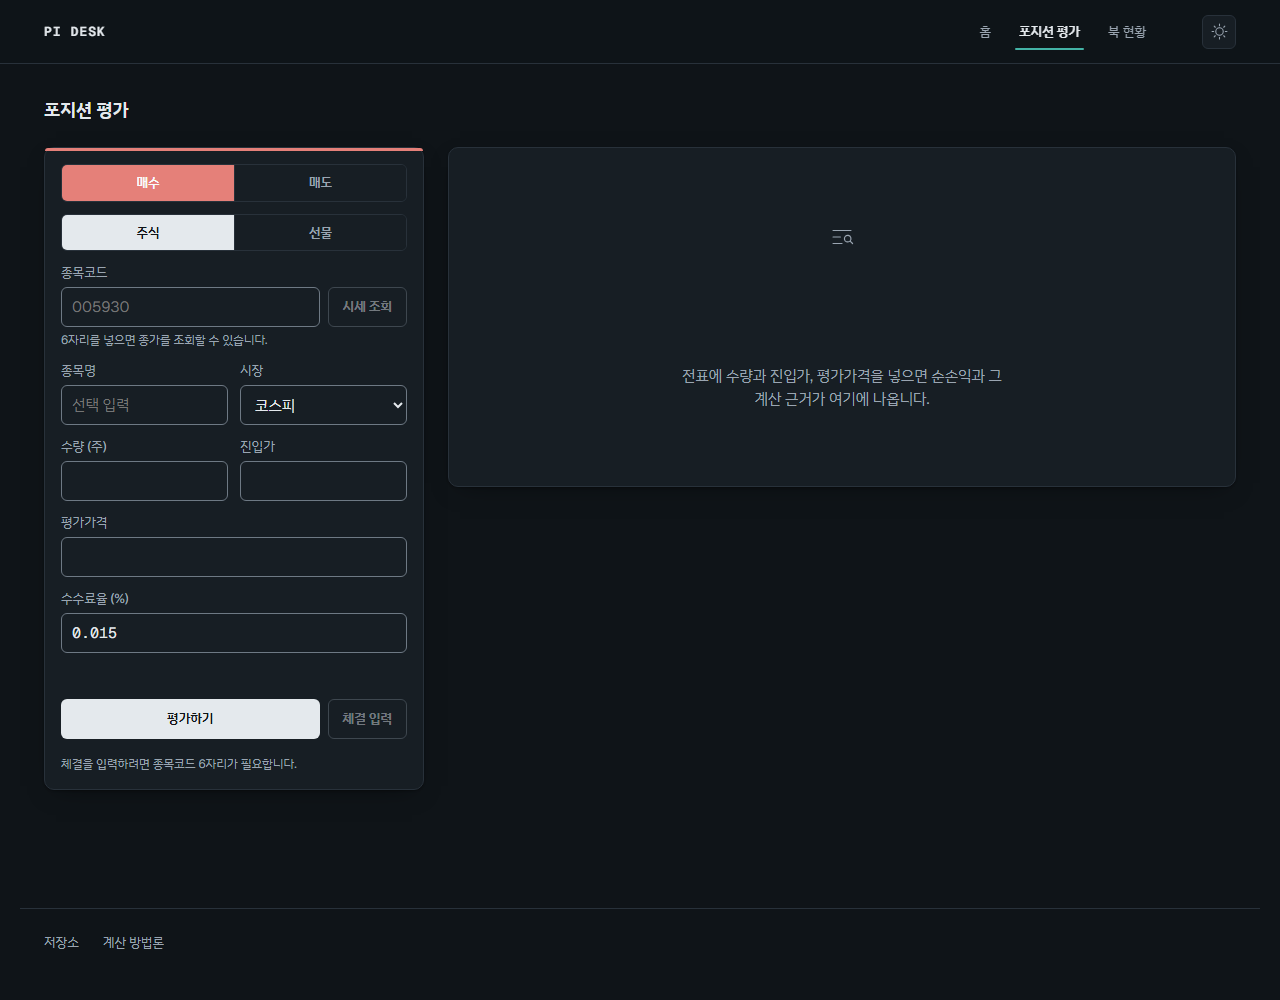
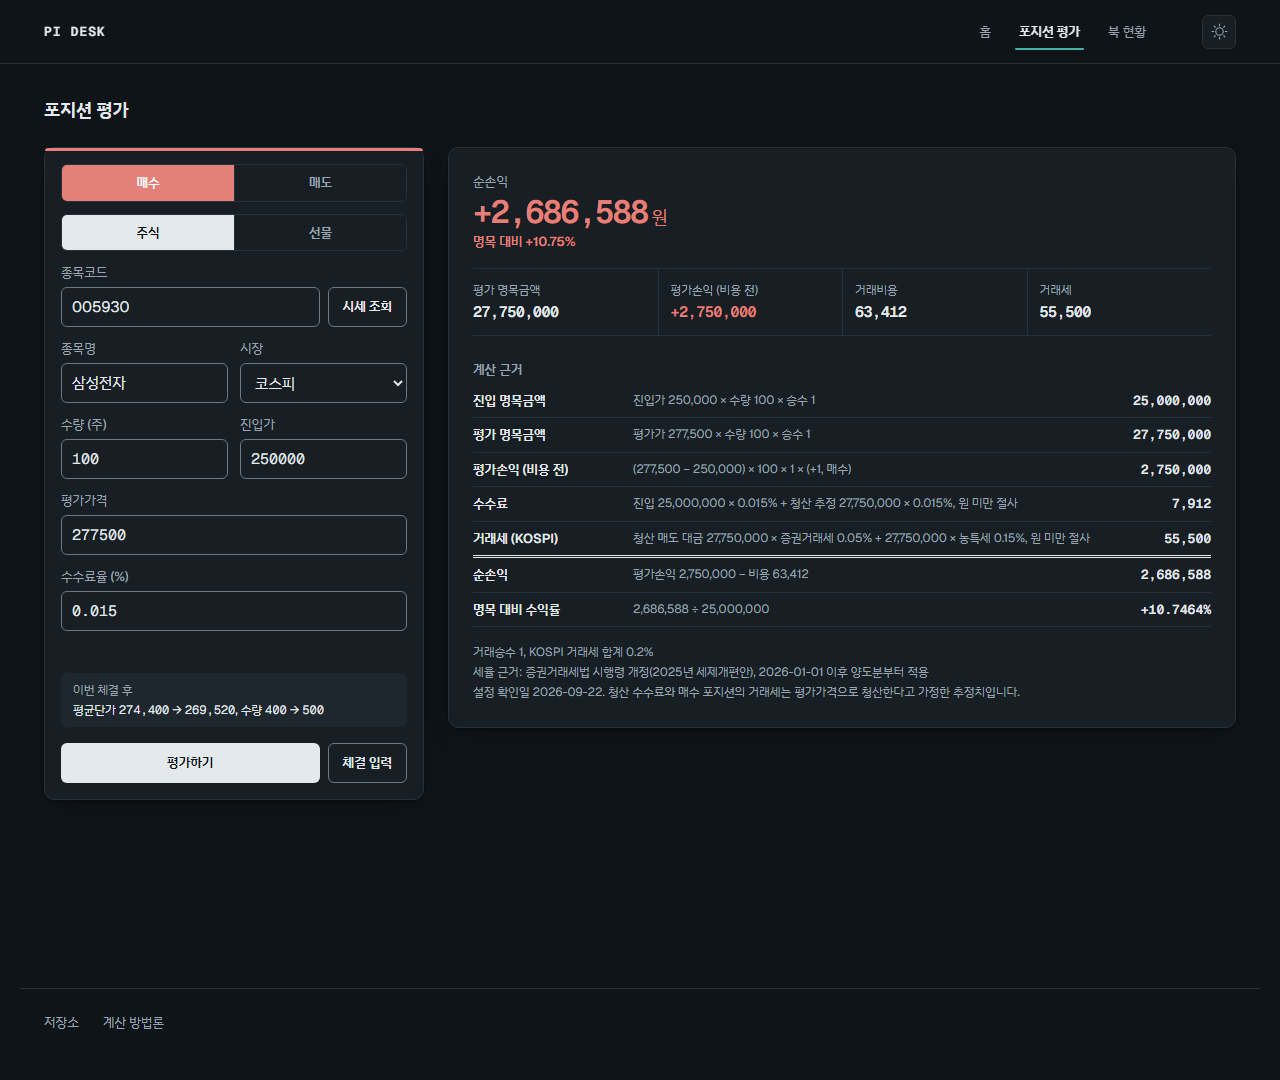
문서: README 스크린샷을 실제 화면에 맞게 교체하고 설명 수정
문제
- 포지션 평가 스크린샷이 빈 전표였다. 계산 결과도 근거도 없는 화면이라
  이 제품이 무엇을 하는지 전혀 보여주지 못했다.
- 체결 기반으로 바뀌면서 생긴 기능(평균단가 미리보기, 방향 전환 안내,
  종목 상세)에 해당하는 스크린샷이 README에 하나도 없었다.

수정
- shot.html에 act=filled 추가. 평가 화면은 값이 채워진 상태로 찍는다.
  shoot_screenshots.py가 valuation 경로에 이 동작을 쓴다.
- shoot_screenshots.py가 상태 스크린샷까지 지우던 문제를 고쳤다.
  이제 자기가 다시 만들 파일만 지운다.
- shoot_states.py에 평균단가 미리보기·방향 전환·종목 상세를 추가하고,
  빈 북·로딩은 빈 임시 DB로 따로 찍도록 EMPTY_STATES로 분리했다.
- README 화면 절을 다시 썼다. 각 스크린샷이 무엇을 보여주는지 실제 숫자로 설명한다.
  근거 추적에서 진입가가 강조되지 않는 이유, 미리보기의 274,400 -> 276,600,
  부분 청산에서 평균단가가 유지된다는 점, 오류에 빨강을 쓰지 않는 이유.

스크린샷 20장 갱신. pytest 70개 통과, build/lint 오류 0.

diff --git a/frontend/public/shot.html b/frontend/public/shot.html
@@ -74,6 +74,20 @@
       const tax = rows.find((r) => r.textContent.includes('거래세')) || rows[0]
       tax.focus()
       await sleep(600)
+    } else if (act === 'filled') {
+      // 평가 화면은 값이 채워진 상태로 찍는다. 빈 전표는 이 제품이 무엇을 하는지 보여주지 못한다.
+      await sleep(1400)
+      const set = (id, v) => {
+        const el = d.getElementById(id)
+        Object.getOwnPropertyDescriptor(win.HTMLInputElement.prototype, 'value').set.call(el, v)
+        el.dispatchEvent(new win.Event('input', { bubbles: true }))
+      }
+      set('ticker', '005930')
+      set('name', '삼성전자')
+      set('quantity', '100')
+      set('entryPrice', '250000')
+      set('markPrice', '277500')
+      await sleep(2000)
     } else if (act === 'flip' || act === 'preview') {
       // 이미 보유 중인 삼성전자에 반대 방향 체결을 넣어 미리보기를 띄운다.
       // flip이면 보유 400주를 넘는 500주를 팔아 방향 전환 안내가 뜨게 한다.

diff --git a/backend/scripts/shoot_screenshots.py b/backend/scripts/shoot_screenshots.py
@@ -35,18 +35,24 @@ MIN_VIEWPORT = 500
 DESKTOP = (1280, 900)
 MOBILE = (375, 812)
 
-SHOTS: list[tuple[str, str, int, int, str]] = []
+# act는 화면을 어떤 상태까지 몰고 갈지 정한다(frontend/public/shot.html 참조).
+# 평가 화면은 값이 채워진 상태로 찍는다. 빈 전표는 이 제품이 무엇을 하는지 보여주지 못한다.
+SHOTS: list[tuple[str, str, int, int, str, str]] = []
 for theme in ("light", "dark"):
-    for name, route, tall in (("home", "/", 1760), ("valuation", "/valuation", 1000),
-                              ("book", "/book", 900)):
-        SHOTS.append((f"{name}-desktop-{theme}", route, DESKTOP[0], tall, theme))
-        SHOTS.append((f"{name}-mobile-{theme}", route, MOBILE[0], 1500 if name == "home" else 900,
-                      theme))
+    for name, route, tall, act in (("home", "/", 1760, ""),
+                                   ("valuation", "/valuation", 1080, "filled"),
+                                   ("book", "/book", 900, "")):
+        SHOTS.append((f"{name}-desktop-{theme}", route, DESKTOP[0], tall, theme, act))
+        mobile_h = {"home": 1500, "valuation": 1500}.get(name, 900)
+        SHOTS.append((f"{name}-mobile-{theme}", route, MOBILE[0], mobile_h, theme, act))
 
 
-def shoot(dest: Path, route: str, w: int, h: int, theme: str) -> bool:
+def shoot(dest: Path, route: str, w: int, h: int, theme: str, act: str = "") -> bool:
     """shot.html을 띄워 잡고, iframe 영역(w x h)만 잘라 저장한다."""
-    return shoot_url(dest, f"w={w}&h={h}&theme={theme}&route={route}", w, h)
+    query = f"w={w}&h={h}&theme={theme}&route={route}"
+    if act:
+        query += f"&act={act}"
+    return shoot_url(dest, query, w, h)
 
 
 def shoot_url(dest: Path, query: str, w: int, h: int) -> bool:
@@ -74,12 +80,13 @@ def main() -> int:
         print("CHROME_PATH 환경 변수로 경로를 지정하세요.")
         return 1
     OUT.mkdir(parents=True, exist_ok=True)
-    for old in OUT.glob("*.png"):
-        old.unlink()
+    # 이 스크립트가 다시 만들 파일만 지운다. shoot_states.py가 찍은 상태 스크린샷은 건드리지 않는다.
+    for name, *_ in SHOTS:
+        (OUT / f"{name}.png").unlink(missing_ok=True)
 
     made = 0
-    for name, route, w, h, theme in SHOTS:
-        ok = shoot(OUT / f"{name}.png", route, w, h, theme)
+    for name, route, w, h, theme, act in SHOTS:
+        ok = shoot(OUT / f"{name}.png", route, w, h, theme, act)
         print(f"{'[찍음]' if ok else '[실패]'} {name:30} {w}x{h} {theme}")
         made += int(ok)
 

diff --git a/backend/scripts/shoot_states.py b/backend/scripts/shoot_states.py
@@ -14,11 +14,19 @@ from scripts.shoot_screenshots import CHROME, OUT, shoot_url
 
 STATES: list[tuple[str, str, int, int, str]] = [
     # (파일명, shot.html 쿼리, 폭, 높이, 설명)
-    ("state-book-empty", "route=/book&act=empty", 1280, 700, "빈 북"),
-    ("state-loading-skeleton", "route=/book&act=loading", 1280, 620, "로딩 스켈레톤"),
     ("state-input-error", "route=/valuation&act=error", 1280, 900, "입력 오류"),
-    ("state-trace-highlight", "route=/valuation&act=trace", 1280, 900, "근거 추적 강조"),
+    ("state-trace-highlight", "route=/valuation&act=trace", 1280, 780, "근거 추적 강조"),
+    ("state-trade-preview", "route=/valuation&act=preview", 1280, 980, "평균단가 미리보기"),
+    ("state-trade-flip", "route=/valuation&act=flip", 1280, 980, "방향 전환 안내"),
+    ("state-position-detail", "route=/book&act=detail", 1280, 720, "종목 상세"),
     ("state-reconciliation", "route=/book&act=recon&theme=dark", 1280, 620, "대사 일치"),
+]
+
+# 빈 북과 로딩은 비어 있는 임시 DB를 띄운 백엔드를 상대로 따로 찍는다.
+# 화면에서 응답을 가로채 흉내 내지 않기 위한 것이다. README의 EMPTY_STATES 절 참조.
+EMPTY_STATES: list[tuple[str, str, int, int, str]] = [
+    ("state-book-empty", "route=/book&act=empty", 1280, 620, "빈 북"),
+    ("state-loading-skeleton", "route=/book&act=loading", 1280, 560, "로딩 스켈레톤"),
 ]
 
 

diff --git a/README.md b/README.md
@@ -64,18 +64,60 @@ cd backend
 
 ## 화면
 
+전표에 값을 넣으면 순손익과 함께 **그 숫자가 나온 산식**이 오른쪽에 그대로 나옵니다.
+아래는 삼성전자 100주를 250,000에 사서 277,500에 평가한 경우입니다.
+
 | | 라이트 | 다크 |
 |---|---|---|
 | 포지션 평가 | ![](docs/screenshots/valuation-desktop-light.png) | ![](docs/screenshots/valuation-desktop-dark.png) |
 | 북 현황 | ![](docs/screenshots/book-desktop-light.png) | ![](docs/screenshots/book-desktop-dark.png) |
 
-근거 추적을 켠 모습입니다. `거래세 (KOSPI)` 줄에 포커스하면 그 줄이 쓴 시장·수량·평가가격·방향만
-강조되고, 진입가는 강조되지 않습니다. 매수 포지션의 거래세는 청산 매도 대금(평가가격) 기준이기
-때문입니다.
+북 현황에서는 **확정(실현손익)과 미확정(평가손익)을 그룹 헤더와 1px 세로선으로 갈라** 둡니다.
+성격이 다른 숫자라 한데 섞이면 안 되기 때문입니다.
+
+### 근거 추적
+
+계산 근거 줄에 마우스를 올리거나 키보드로 포커스하면, 그 값이 쓴 입력 칸이 전표에서 함께 강조됩니다.
+아래는 `거래세 (KOSPI)` 줄을 잡은 모습입니다. 시장·수량·평가가격·방향이 강조되고
+**진입가는 강조되지 않습니다.** 매수 포지션의 거래세는 청산 매도 대금(평가가격) 기준이기 때문입니다.
+이 구분은 화면이 짐작한 것이 아니라 엔진이 `TraceStep.inputs`로 알려준 것입니다.
 
 ![근거 추적](docs/screenshots/state-trace-highlight.png)
 
-모든 화면 스크린샷은 [docs/screenshots](docs/screenshots)에 있습니다.
+### 체결 입력과 평균단가 미리보기
+
+이미 보유 중인 종목이면 이번 체결 후 평균단가와 수량이 어떻게 되는지 입력 단계에서 보여줍니다.
+아래는 400주를 274,400에 들고 있는 상태에서 200주를 281,000에 더 사려는 경우로,
+평균단가가 **274,400에서 276,600으로** 올라갑니다.
+저장하지 않는 조회(`POST /api/trades/preview`)라 값을 고치는 동안 계속 갱신됩니다.
+
+![평균단가 미리보기](docs/screenshots/state-trade-preview.png)
+
+### 방향 전환 안내
+
+보유 수량을 넘는 반대 방향 체결은 거절하지 않고 **방향 전환**으로 처리합니다(이동평균법 규칙 3).
+다만 실수일 수 있으므로 청산되는 수량과 새로 생기는 수량을 입력 단계에서 알려줍니다.
+경고가 아니라 확인이므로 오류 색을 쓰지 않습니다.
+
+![방향 전환 안내](docs/screenshots/state-trade-flip.png)
+
+### 종목 상세: 평균단가가 어떻게 움직였나
+
+체결 한 건이 한 줄입니다. 분할 매수로 268,000에서 274,400이 되고,
+**부분 청산에서는 평균단가가 바뀌지 않는다**는 것이 그대로 보입니다(규칙 2).
+각 줄의 값은 그 체결 시점에 저장된 것이라 지금 다시 계산하지 않습니다.
+
+![종목 상세](docs/screenshots/state-position-detail.png)
+
+### 그 밖의 상태
+
+빈 북, 로딩 스켈레톤, 입력 오류, 엔진·SQL 대사 결과를 포함한 전체 스크린샷은
+[docs/screenshots](docs/screenshots)에 있습니다(3개 화면 x 1280/375 x 라이트/다크 + 상태 8종).
+
+입력 오류에는 **빨강을 쓰지 않습니다.** 이 앱에서 빨강은 매수와 이익을 뜻하므로
+빨간 오류 박스는 "이익"으로 오독될 여지가 있습니다. 오류와 경고는 오커 계열로 통일하고
+아이콘과 위치로 구분합니다.
+
 직접 다시 찍으려면 dev 서버를 띄운 상태에서 아래를 실행합니다(설치된 Chrome을 headless로 씁니다).
 
 ```powershell
@@ -83,6 +125,9 @@ cd backend
 .venv\Scripts\python -m scripts.shoot_screenshots
 .venv\Scripts\python -m scripts.shoot_states
 ```
+
+빈 북과 로딩 스켈레톤은 **비어 있는 임시 DB를 띄운 백엔드**를 상대로 따로 찍습니다.
+화면에서 응답을 가로채 흉내 내지 않습니다. 가짜 데이터로 만든 화면을 문서에 싣지 않기 위해서입니다.
 
 ## 기존 DB 이전
 
